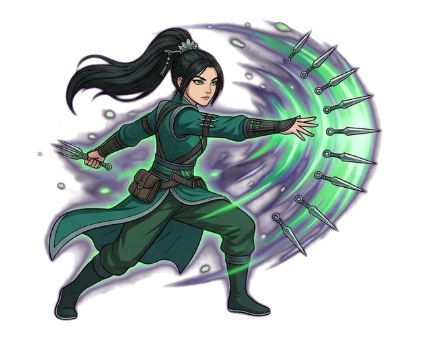
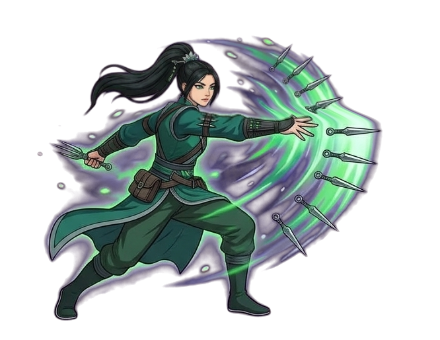
당소연 머리 약 18% 줄임 (12장, 목 아래는 그대로)

Changed region(s): [[0.1477, 0.0588, 0.8864, 0.3824]]

diff --git a/tools/shrink_head_tang.js b/tools/shrink_head_tang.js
@@ -1,0 +1,59 @@
+(async () => {
+  // 당소연 머리 줄이기 (11-13 사용자: "얼굴 크기를 조금만 줄일 수 있어?")
+  // 목(턱 아래) 점을 기준으로 위쪽만 S 배로 줄임. 목 근처는 서서히 1 로 이어서 경계(특히 묶은 머리)가 끊기지 않게
+  const S = 0.82;
+  const names = [];
+  for (const k of ['walk', 'attack', 'cast']) for (let i = 0; i < 4; i++) names.push(`tangsoyeon_${k}_${i}`);
+  const out = {}, info = {};
+  const before = document.createElement('canvas'); before.width = 12 * 220; before.height = 2 * 170;
+  const bx = before.getContext('2d');
+  for (let n = 0; n < names.length; n++) {
+    const im = new Image(); im.src = '/assets/hero/' + names[n] + '.png?t=' + Date.now(); await im.decode();
+    const w = im.width, h = im.height;
+    const c = document.createElement('canvas'); c.width = w; c.height = h; const x = c.getContext('2d'); x.drawImage(im, 0, 0);
+    const src = x.getImageData(0, 0, w, h).data;
+    let top = h, bot = 0;
+    for (let y = 0; y < h; y++) for (let X = 0; X < w; X++) if (src[(y * w + X) * 4 + 3] > 40) { if (y < top) top = y; if (y > bot) bot = y; }
+    const H = bot - top;
+    // 얼굴 살색: 위쪽 30% 안
+    const sk = [];
+    for (let y = top; y < top + H * 0.32; y++) for (let X = 0; X < w; X++) {
+      const i = (y * w + X) * 4, r = src[i], g = src[i + 1], b = src[i + 2], a = src[i + 3];
+      if (a > 200 && r > 190 && g > 140 && g < 225 && b > 110 && b < 200 && r - b > 30) sk.push([X, y]);
+    }
+    sk.sort((p, q) => p[1] - q[1]);
+    const topSkin = sk.slice(0, Math.max(1, Math.floor(sk.length * 0.3)));
+    const fx = topSkin.reduce((s, p) => s + p[0], 0) / topSkin.length;
+    const face = sk.filter(p => Math.abs(p[0] - fx) < 30);
+    const chin = Math.max(...face.map(p => p[1]));
+    const cx = face.reduce((s, p) => s + p[0], 0) / face.length;
+    const ny = chin + 4; // 목 기준점
+    info[names[n]] = { top, chin, cx: Math.round(cx), skin: sk.length };
+    // 뒤집어 찾기: 결과 (px,py) ← 원본 (cx + (px-cx)/s, ny + (py-ny)/s), s 는 목 위에서 S, 목 아래로 18px 에 걸쳐 1
+    const o = x.createImageData(w, h), d = o.data;
+    const blendTop = ny - 6, blendBot = ny + 16;
+    for (let py = 0; py < h; py++) {
+      const t = py <= blendTop ? 1 : py >= blendBot ? 0 : 1 - (py - blendTop) / (blendBot - blendTop);
+      const s = 1 - (1 - S) * (t * t * (3 - 2 * t));
+      for (let px = 0; px < w; px++) {
+        const sx = cx + (px - cx) / s, sy = ny + (py - ny) / s;
+        const x0 = Math.floor(sx), y0 = Math.floor(sy), fxr = sx - x0, fyr = sy - y0;
+        const j = (py * w + px) * 4;
+        let acc = [0, 0, 0, 0];
+        for (const [dx, dy, wt] of [[0, 0, (1 - fxr) * (1 - fyr)], [1, 0, fxr * (1 - fyr)], [0, 1, (1 - fxr) * fyr], [1, 1, fxr * fyr]]) {
+          const X = x0 + dx, Y = y0 + dy;
+          if (X < 0 || Y < 0 || X >= w || Y >= h) continue;
+          const i = (Y * w + X) * 4, a = src[i + 3] * wt;
+          acc[0] += src[i] * a; acc[1] += src[i + 1] * a; acc[2] += src[i + 2] * a; acc[3] += a;
+        }
+        if (acc[3] > 0) { d[j] = acc[0] / acc[3]; d[j + 1] = acc[1] / acc[3]; d[j + 2] = acc[2] / acc[3]; d[j + 3] = acc[3]; }
+      }
+    }
+    const oc = document.createElement('canvas'); oc.width = w; oc.height = h; oc.getContext('2d').putImageData(o, 0, 0);
+    out[names[n]] = oc.toDataURL('image/png');
+    bx.drawImage(im, n * 220, 0, 220, 170);
+    bx.drawImage(oc, n * 220, 170, 220, 170);
+    bx.fillStyle = 'rgba(255,0,0,.8)'; bx.fillRect(n * 220 + cx / 2 - 2, ny / 2 - 1, 4, 2);
+  }
+  return JSON.stringify({ info, cmp: before.toDataURL('image/jpeg', 0.9), out });
+})()

diff --git a/작업기록.md b/작업기록.md
@@ -323,3 +323,4 @@
 - 현운 시전 1번(백보신권 쌍장) 장풍 끝이 세로로 잘려 보임 (11-13 사용자): 원본 시트에서 장풍이 그림 오른쪽 끝에 잘려 있었음 → 끝 95px 를 들쭉날쭉하게 서서히 사라지게 + 발밑 떨어진 조각 지움(tools/fade_hy_cast1.js). 같이: 여래신장 금빛 손바닥 그림(fx_buddha_palm)도 가장자리를 둥글게 지움(08_fx.js FX_SOFT) — 크게 그릴 때 네모 끝 빛줄기가 직선으로 끊기던 것.
 - 협객별 컷신 이야기 (11-13 사용자: "다른 캐릭으로 하니 컷신이 너무 서진"): 13_cinematics.js HERO_CINE — 장면 id 마다 협객별로 그림(id)·대사(who·text)를 바꿈. 큰 줄기는 같고 하산 이유·북행 이유·끝맺음이 다름. 현운: 혈독환에 미친 사형 운백을 되돌리려 → 빙심(氷心) → 사형이 깨어남. 당소연: 도둑맞은 당문 의술서 → 해독법이 적힌 찢긴 마지막 장 → 당문의 독을 사람 살리는 데. 보스 대사도 협객에 맞춤. 새 그림 16장(제미나이 Hydrogen, tools/gemini/gem_cinema_heroes.sh → assets/cinema/hy_*·tg_*.jpg). 시험: 주소에 ?cinehero=hyunwoon&cinema=opening. 영어 대사도 넣음.
 - 폭독 효과 키움 (11-13 사용자: "너무 약함"): 얇은 초록 고리 하나 → 가운데 독 폭발 빛 + 부풀어 떠오르는 독구름 7덩이 + 포물선으로 튀는 독방울 14개 + 퍼지는 독 고리 + 바닥 독웅덩이(fx_poison, 1.4초, 한 프레임 3개까지) + 첫 터짐에 작은 흔들림·소리.
+- 당소연 머리 줄임 (11-13 사용자: "머리가 너무 커서 개그캐릭이 됨"): 12장 모두 턱 아래 목 점을 기준으로 위쪽만 0.82배(약 18%), 목 둘레 22px 에서 서서히 1배로 이어 묶은 머리·목이 끊기지 않게(tools/shrink_head_tang.js, 얼굴은 살색으로 찾음). 원본은 assets_new/tang_orig/. 더 줄이거나 되돌리려면 원본에서 S 값만 바꿔 다시.
